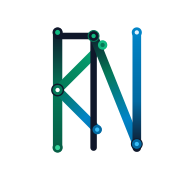
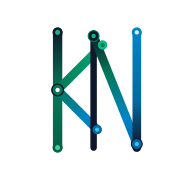
Update monogram to remove the K to N link

Changed region(s): [[0.3333, 0.1667, 0.5, 0.2222]]

diff --git a/src/components/GeometricKNLogo.tsx b/src/components/GeometricKNLogo.tsx
@@ -68,9 +68,9 @@ export const GeometricKNLogo: React.FC<GeometricKNLogoProps> = ({
         <path d="M 160 250 L 285 125" stroke="url(#kUpperDiagGrad)" strokeWidth="24" />
         <path d="M 160 250 L 270 360" stroke="url(#kLowerDiagGrad)" strokeWidth="24" />
 
-        {/* 3. N Left Pillar & Interlock Link */}
+        {/* 3. N Left Pillar */}
         <path
-          d="M 160 100 L 260 100 L 260 410"
+          d="M 260 100 L 260 410"
           stroke="#0F172A"
           strokeWidth="18"
           fill="none"
